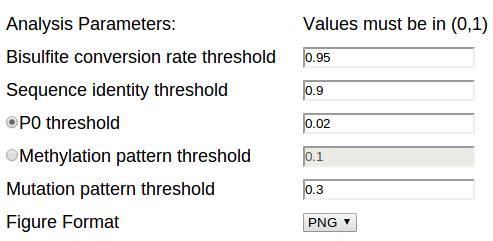
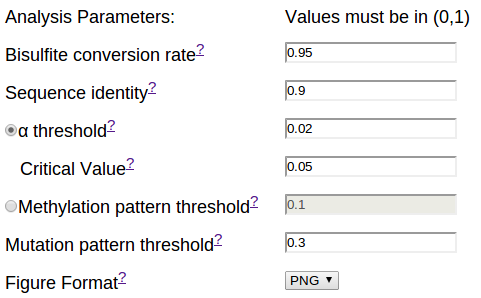
added critical value parameter. modified manuals.

diff --git a/src/web/analysisServlet.java b/src/web/analysisServlet.java
@@ -58,15 +58,22 @@ public class analysisServlet extends HttpServlet {
 																		// format
 		if (request.getParameter("minp0text") != null) {
 			constant.minP0Threshold = Double.valueOf(request.getParameter("minp0text"));
+			constant.criticalValue = Double.valueOf(request.getParameter("criticalValue"));
 			constant.minMethylThreshold = -1;
 			// value check
 			if (constant.minP0Threshold < 0 || constant.minP0Threshold > 1) {
-				Utilities.showAlertWindow(response, "p0 threshold invalid!!");
+				Utilities.showAlertWindow(response, "alpha threshold invalid!!");
+				return;
+			}
+			// value check
+			if (constant.criticalValue < 0 || constant.criticalValue > 1) {
+				Utilities.showAlertWindow(response, "critical value invalid!!");
 				return;
 			}
 		} else if (request.getParameter("minmethyltext") != null) {
 			constant.minMethylThreshold = Double.valueOf(request.getParameter("minmethyltext"));
 			constant.minP0Threshold = -1;
+			constant.criticalValue = -1;
 			// value check
 			if (constant.minMethylThreshold < 0 || constant.minMethylThreshold > 1) {
 				Utilities.showAlertWindow(response, "methylation pattern threshold invalid!!");
@@ -94,12 +101,12 @@ public class analysisServlet extends HttpServlet {
 
 		ExecutorService executor = Executors.newCachedThreadPool();
 		ArrayList<Future<ArrayList<ReportSummary>>> futureList = new ArrayList<>();
-		for (int i=0;i<constant.experiments.size();i++) {
+		for (int i = 0; i < constant.experiments.size(); i++) {
 			Future<ArrayList<ReportSummary>> future = executor.submit(new ExecuteAnalysis(constant.experiments.get(i).getName(), constant));
 			futureList.add(future);
 		}
-        
-		for (int i=0;i<constant.experiments.size();i++) {
+
+		for (int i = 0; i < constant.experiments.size(); i++) {
 			try {
 				constant.experiments.get(i).reportSummaries = futureList.get(i).get();
 			} catch (InterruptedException e) {

diff --git a/src/BSPAT/Report.java b/src/BSPAT/Report.java
@@ -191,9 +191,9 @@ public class Report {
 			double ph, p0;
 
 			NormalDistributionImpl nd = new NormalDistributionImpl(0, 1);
-			double c2 = 0;
+			double criticalZ = 0;
 			try {
-				c2 = nd.inverseCumulativeProbability(1 - 0.05 / totalCount);
+				criticalZ = nd.inverseCumulativeProbability(1 - constant.criticalValue / totalCount);
 			} catch (MathException e) {
 				// TODO Auto-generated catch block
 				e.printStackTrace();
@@ -204,7 +204,7 @@ public class Report {
 				ph = methylationPattern.getCount() / totalCount;
 				p0 = Math.max(constant.minP0Threshold, Math.pow(p, methylationPattern.getCGcount()));
 				z = (ph - p0) / Math.sqrt(ph * (1 - ph) / totalCount);
-				if (z > c2) {
+				if (z > criticalZ) {
 					outputMethylationPattern.add(methylationPattern);
 				}
 			}
@@ -299,9 +299,9 @@ public class Report {
 					double ph, p0;
 
 					NormalDistributionImpl nd = new NormalDistributionImpl(0, 1);
-					double c2 = 0;
+					double criticalZ = 0;
 					try {
-						c2 = nd.inverseCumulativeProbability(1 - 0.05 / totalCountMutation);
+						criticalZ = nd.inverseCumulativeProbability(1 - constant.criticalValue / totalCountMutation);
 					} catch (MathException e) {
 						// TODO Auto-generated catch block
 						e.printStackTrace();
@@ -312,7 +312,7 @@ public class Report {
 						ph = childPattern.getCount() / totalCountMutation;
 						p0 = Math.max(constant.minP0Threshold, Math.pow(p, childPattern.getCGcount()));
 						z = (ph - p0) / Math.sqrt(ph * (1 - ph) / totalCountMutation);
-						if (z > c2) {
+						if (z > criticalZ) {
 							outputMethylationPattern.add(childPattern);
 						}
 					}

diff --git a/src/DataType/Constant.java b/src/DataType/Constant.java
@@ -36,6 +36,7 @@ public class Constant implements Serializable {
 	public String randomDir;
 	public double mutationPatternThreshold;
 	public double minP0Threshold;
+	public double criticalValue;
 	public double minMethylThreshold;
 	public double conversionRateThreshold;
 	public double sequenceIdentityThreshold;

diff --git a/src/BSPAT/ImportBismarkResult.java b/src/BSPAT/ImportBismarkResult.java
@@ -28,7 +28,6 @@ public class ImportBismarkResult {
 	public ImportBismarkResult(String refPath, String inputFolder) throws IOException {
 		this.inputFolder = inputFolder;
 		this.refPath = refPath;
-
 		readReference();
 		readBismarkAlignmentResult();
 		readBismarkCpGResult();
